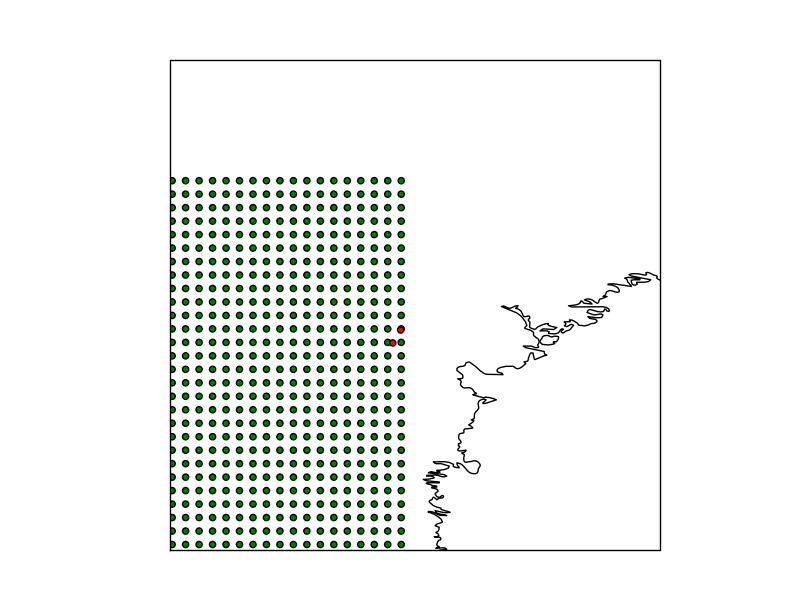
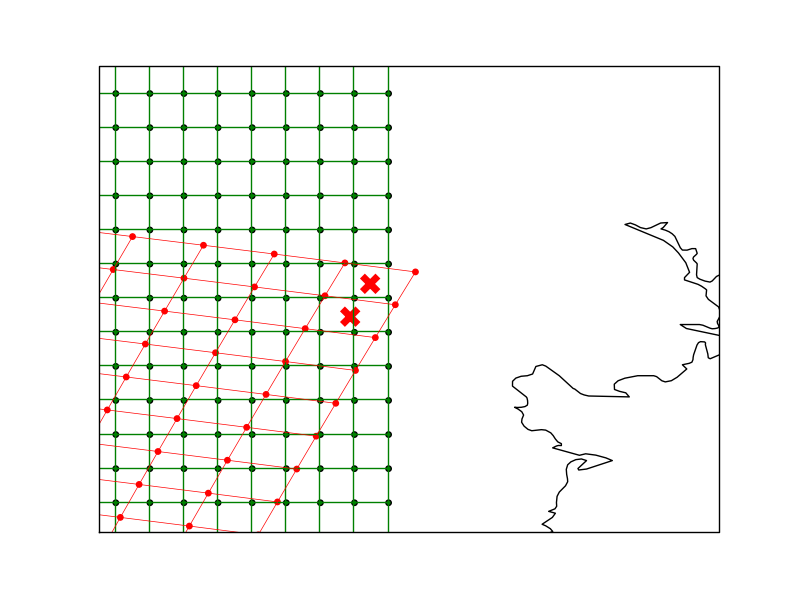
Modify to show cell boundaries of both grids.

diff --git a/esmf/runme.py b/esmf/runme.py
@@ -3,7 +3,6 @@ from iris.experimental.regrid_conservative import regrid_conservative_via_esmpy
 import matplotlib.pyplot as plt
 import numpy as np
 
-
 if __name__ == "__main__":
 
     source = iris.load_cube("pp_unrot.pp")
@@ -22,12 +21,51 @@ if __name__ == "__main__":
     print "regridded.shape", regridded.shape
     print "masked items at", masked
 
-    # Plot the source
+    # Plot source cell boundaries
     ax = plt.axes(projection=source_proj)
-    xx, yy = np.meshgrid(source.coord(axis='x').points, source.coord(axis='y').points)
-    plt.scatter(xx.flat, yy.flat, c='g')
-    
-    # Plot the masked point in the source projection
+
+    part_src = source[-20:-5, -15:]
+    src_x_coord = part_src.coord('longitude')
+    src_y_coord = part_src.coord('latitude')
+    src_x_coord.guess_bounds()
+    src_y_coord.guess_bounds()
+    src_x_points = np.hstack([src_x_coord.bounds[:,0], src_x_coord.bounds[-1:, 1]])
+    src_y_points = np.hstack([src_y_coord.bounds[:,0], src_y_coord.bounds[-1:, 1]])
+    for x0, x1 in zip(src_x_points[:-1], src_x_points[1:]):
+      for y in src_y_points:
+        xx = np.array([x0, x1])
+        yy = np.array([y, y])
+        plt.plot(xx, yy, linewidth=1.0, color='g')
+    for y0, y1 in zip(src_y_points[:-1], src_y_points[1:]):
+      for x in src_x_points:
+        xx = np.array([x, x])
+        yy = np.array([y0, y1])
+        plt.plot(xx, yy, linewidth=1.0, color='g')
+    xx, yy = np.meshgrid(src_x_points, src_y_points)
+    plt.scatter(xx.flat, yy.flat, c='g', marker='o', s=15.0)
+
+    # Plot target (regridded) cell boundaries
+    part_tgt = regridded[-10:, -10:]
+    tgt_x_coord = part_tgt.coord('grid_longitude')
+    tgt_y_coord = part_tgt.coord('grid_latitude')
+    tgt_x_coord.guess_bounds()
+    tgt_y_coord.guess_bounds()
+    tgt_x_points = np.hstack([tgt_x_coord.bounds[:,0], tgt_x_coord.bounds[-1:, 1]])
+    tgt_y_points = np.hstack([tgt_y_coord.bounds[:,0], tgt_y_coord.bounds[-1:, 1]])
+    for x0, x1 in zip(tgt_x_points[:-1], tgt_x_points[1:]):
+      for y in tgt_y_points:
+        xx = np.array([x0, x1])
+        yy = np.array([y, y])
+        plt.plot(xx, yy, linewidth=0.5, color='r', transform=regridded_crs)
+    for y0, y1 in zip(tgt_y_points[:-1], tgt_y_points[1:]):
+      for x in tgt_x_points:
+        xx = np.array([x, x])
+        yy = np.array([y0, y1])
+        plt.plot(xx, yy, linewidth=0.5, color='r', transform=regridded_crs)
+    xx, yy = np.meshgrid(tgt_x_points, tgt_y_points)
+    plt.scatter(xx.flat, yy.flat, marker='o', color='r', s=15.0, transform=regridded_crs)
+
+    # Plot the masked points in the source projection
     for ndi in masked:
         print "index", ndi
         
@@ -38,10 +76,10 @@ if __name__ == "__main__":
         source_x, source_y = source_crs.transform_point(regridded_x, regridded_y, regridded_crs)
         print "    source_x {}, source_y {}".format(source_x, source_y)
 
-        plt.scatter([source_x], [source_y], c='r')
+        plt.scatter([source_x], [source_y], c='r', marker='x', s=125.0, linewidth=5.0)
 
     ax.coastlines("10m")
-    ax.set_extent([15, 19, 61, 65])
-    plt.show()
+    ax.set_extent([16, 18, 62, 63.5])
+    plt.savefig('figure_1.png')
     
     
